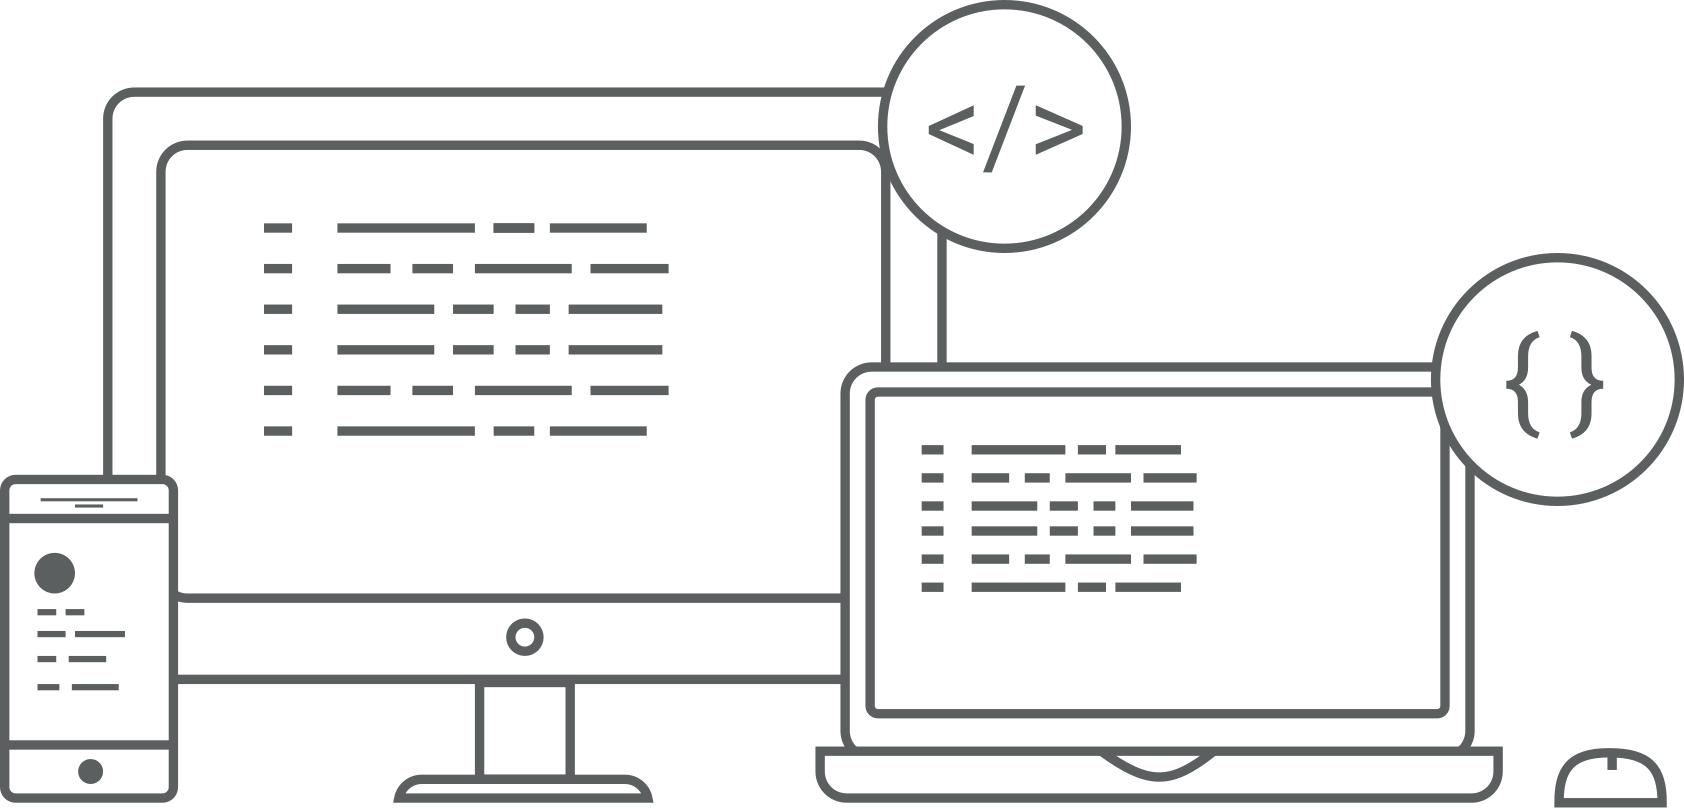
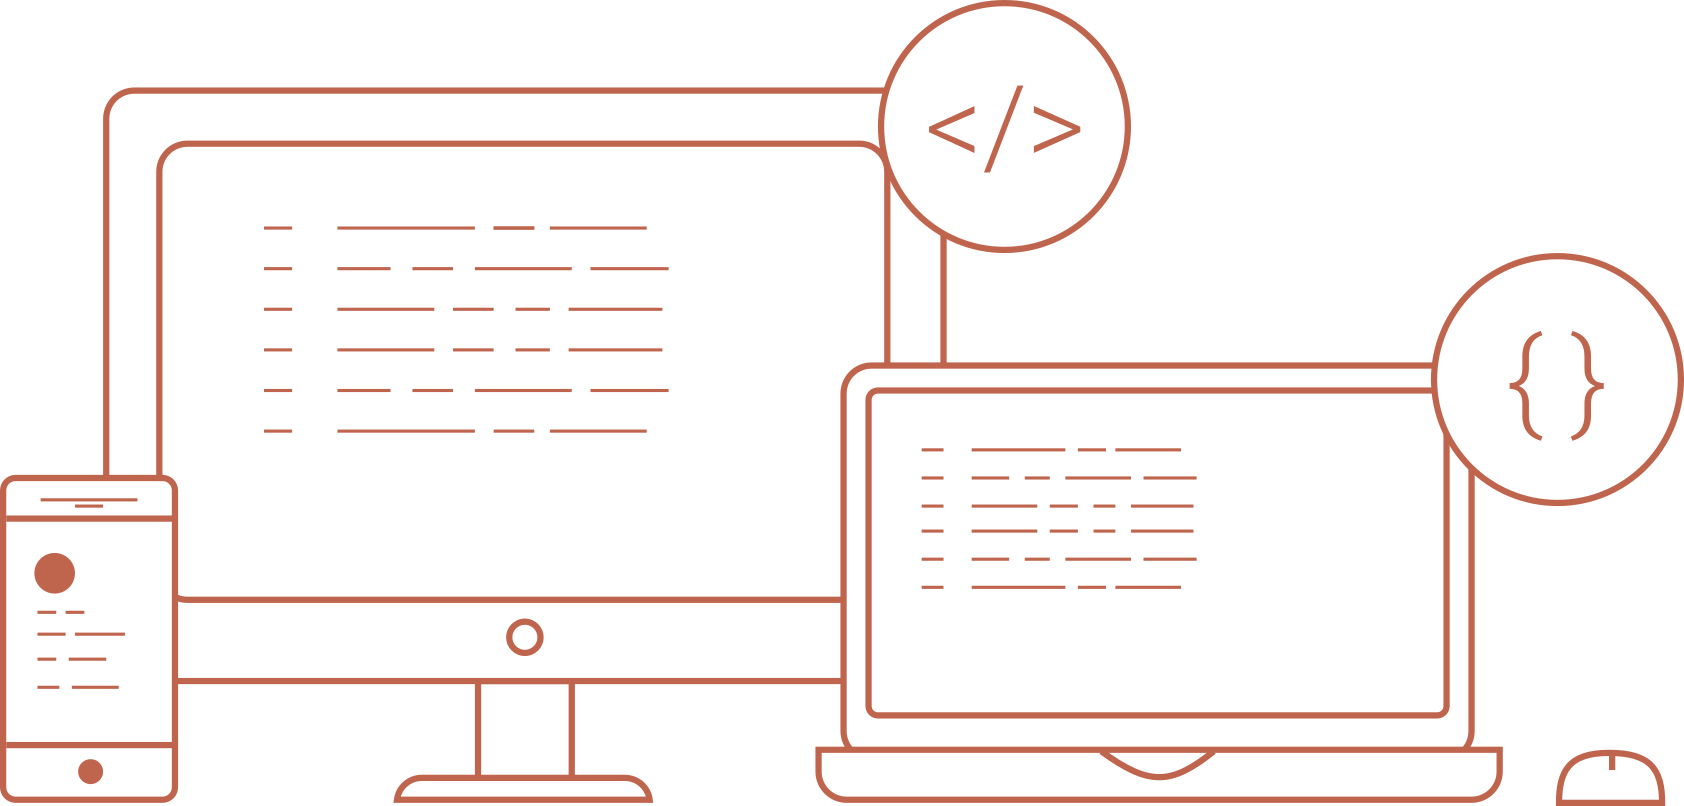
change theme color to orange

diff --git a/assets/css/style.min.css b/assets/css/style.min.css
@@ -8,11 +8,11 @@
 
 /* Handle */
 ::-webkit-scrollbar-thumb {
-  background: #232830; }
+  background: #BF654E; }
 
 /* Handle on hover */
 ::-webkit-scrollbar-thumb:hover {
-  background: #5C5F60; }
+  background: #914E3C; }
 
 body {
   display: -webkit-box;
@@ -146,15 +146,15 @@ body, html {
           body nav .nav-container .nav-right-container .btn-container .say-hi-btn, html nav .nav-container .nav-right-container .btn-container .say-hi-btn {
             font-size: 18px;
             font-weight: 700;
-            color: #232830;
-            border: 2px solid #232830;
+            color: #BF654E;
+            border: 2px solid #BF654E;
             border-radius: 50px;
             padding: 10px 20px;
             -webkit-transition: background-color .3s ease-in-out, color .3s ease-in-out;
             transition: background-color .3s ease-in-out, color .3s ease-in-out; }
           body nav .nav-container .nav-right-container .btn-container .say-hi-btn:hover, html nav .nav-container .nav-right-container .btn-container .say-hi-btn:hover {
             color: #FFFFFF;
-            background-color: #232830; }
+            background-color: #BF654E; }
   body main, html main {
     margin-top: 100px; }
     @media screen and (max-width: 992px) {
@@ -248,7 +248,7 @@ body, html {
             body main .container .categories-container .category-container, html main .container .categories-container .category-container {
               padding: 35px; } }
           body main .container .categories-container .category-container i, html main .container .categories-container .category-container i {
-            color: #5C5F60;
+            color: #BF654E;
             font-size: 48px;
             margin-bottom: 20px; }
           body main .container .categories-container .category-container .category-header, html main .container .categories-container .category-container .category-header {
@@ -267,7 +267,7 @@ body, html {
                 width: 200px; } }
           body main .container .categories-container .category-container .category-label-header, html main .container .categories-container .category-container .category-label-header {
             font-weight: 600;
-            color: #5C5F60;
+            color: #BF654E;
             margin-bottom: 20px; }
           body main .container .categories-container .category-container .category-assign-header, html main .container .categories-container .category-container .category-assign-header {
             color: #5C5F60;
@@ -282,7 +282,7 @@ body, html {
     body main .introduction-container, html main .introduction-container {
       padding: 0 50px;
       min-height: 500px;
-      background-color: #232830; }
+      background-color: #BF654E; }
       body main .introduction-container .intro-container, html main .introduction-container .intro-container {
         padding: 100px 0 100px 0;
         text-align: center;

diff --git a/assets/scss/style.scss b/assets/scss/style.scss
@@ -2,6 +2,7 @@ $colors: (
   // 232830
   // 5C5F60
   // 9B9B9B
+  // BF654E
   // E0E4ED
   // FFFFFF
   // 000000
@@ -19,12 +20,12 @@ $colors: (
 
 /* Handle */
 ::-webkit-scrollbar-thumb {
-  background: #232830;
+  background: #BF654E;
 }
 
 /* Handle on hover */
 ::-webkit-scrollbar-thumb:hover {
-  background: #5C5F60;
+  background: #914E3C;
 }
 
 body {
@@ -157,8 +158,8 @@ body, html {
           .say-hi-btn {
             font-size: 18px;
             font-weight: 700;
-            color: #232830;
-            border: 2px solid #232830;
+            color: #BF654E;
+            border: 2px solid #BF654E;
             border-radius: 50px;
             padding: 10px 20px;
             transition: background-color .3s ease-in-out, color .3s ease-in-out;
@@ -166,7 +167,7 @@ body, html {
 
           .say-hi-btn:hover {
             color: #FFFFFF;
-            background-color: #232830;
+            background-color: #BF654E;
           }
         }
       }
@@ -273,7 +274,7 @@ body, html {
           }
 
           i {
-            color: #5C5F60;
+            color: #BF654E;
             font-size: 48px;
             margin-bottom: 20px;
           }
@@ -299,7 +300,7 @@ body, html {
 
           .category-label-header {
             font-weight: 600;
-            color: #5C5F60;
+            color: #BF654E;
             margin-bottom: 20px;
           }
 
@@ -328,7 +329,7 @@ body, html {
     .introduction-container {
       padding: 0 50px;
       min-height: 500px;
-      background-color: #232830;
+      background-color: #BF654E;
 
       .intro-container {
         padding: 100px 0 100px 0;
